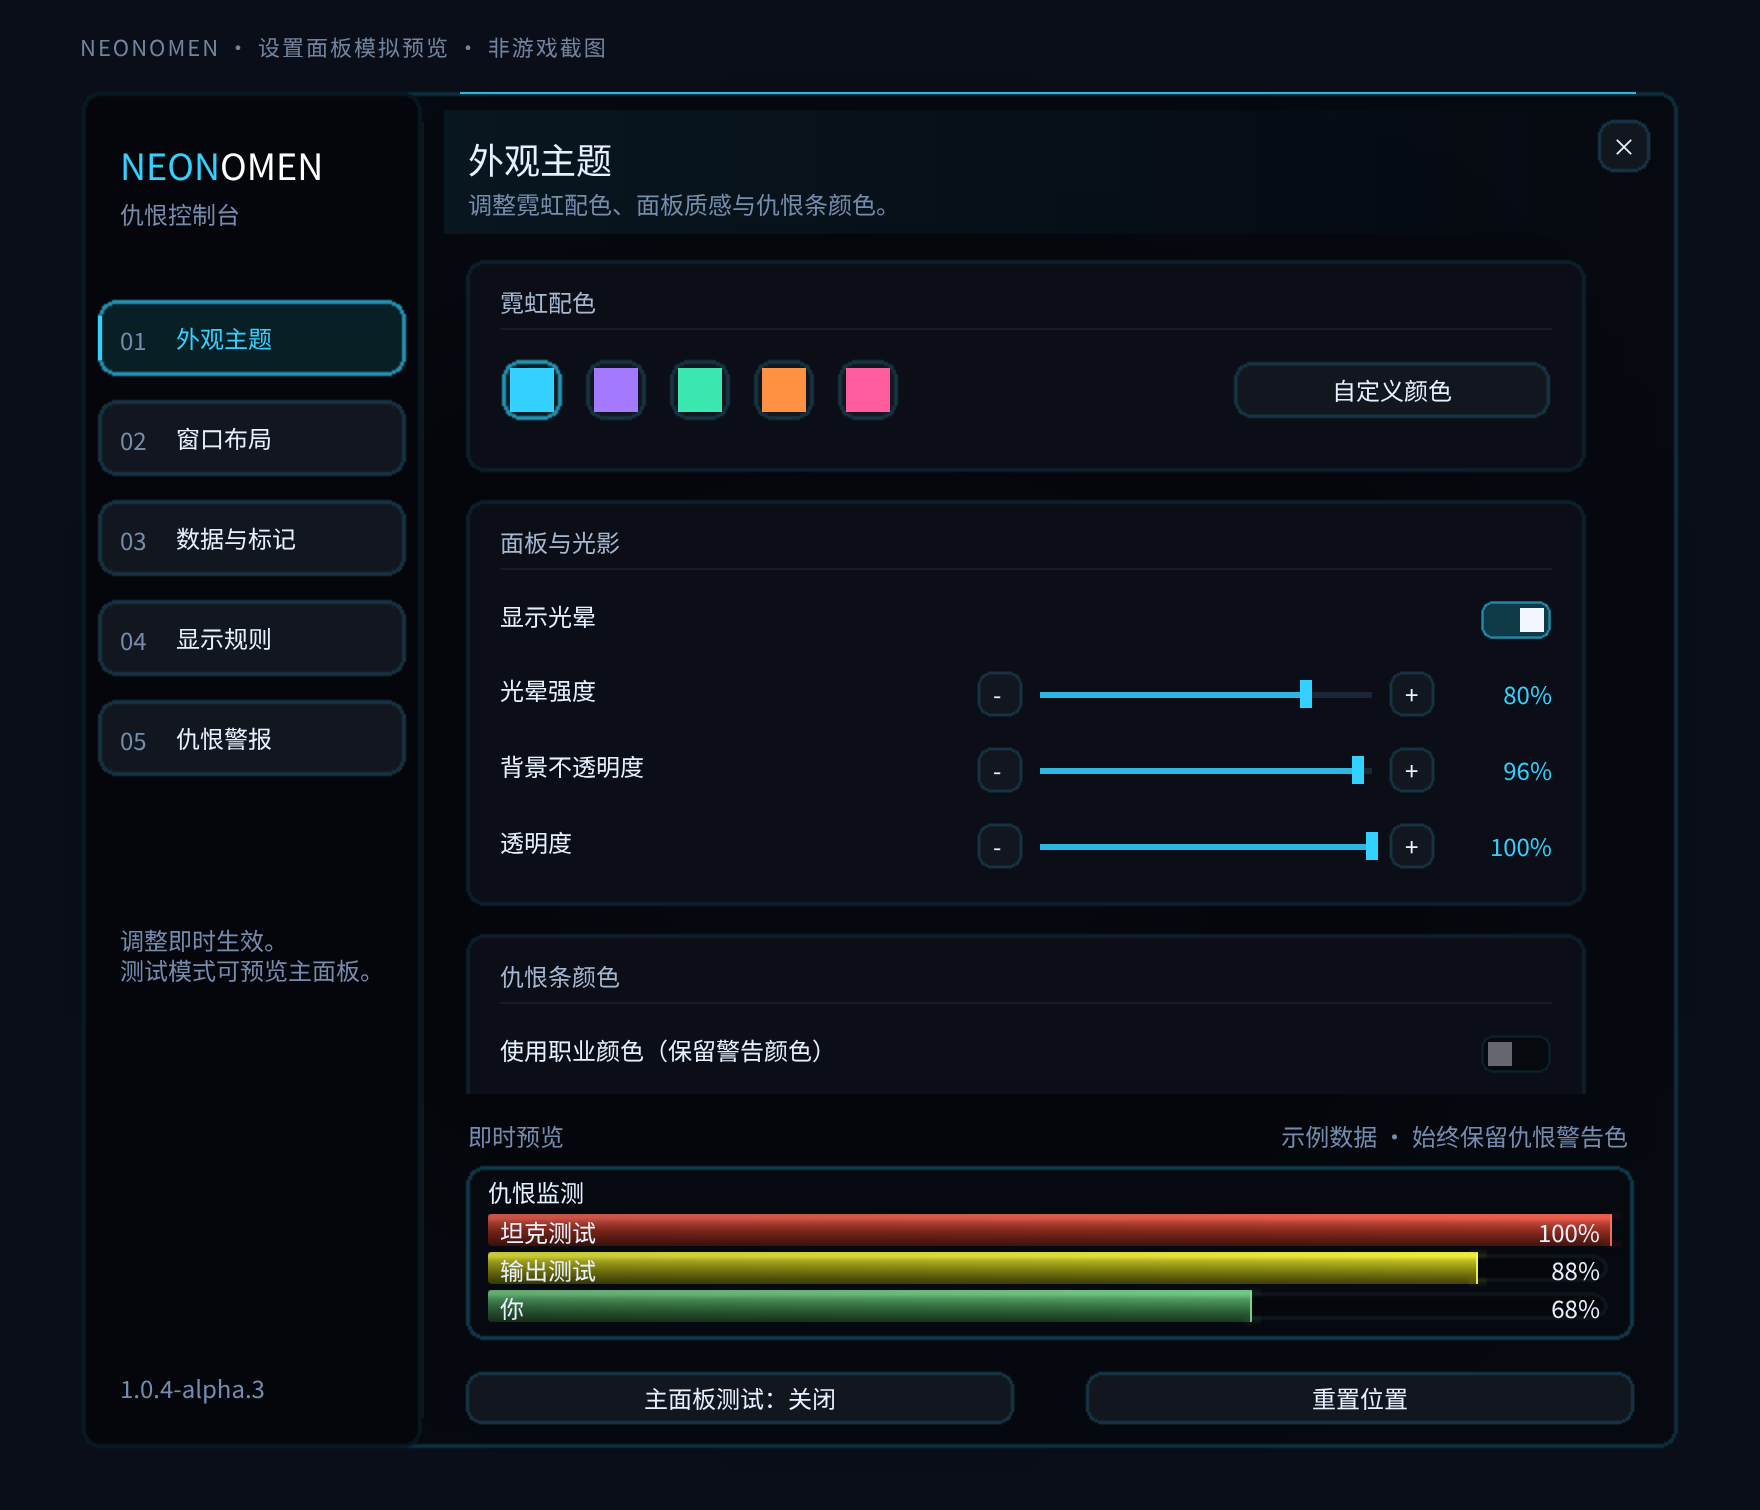
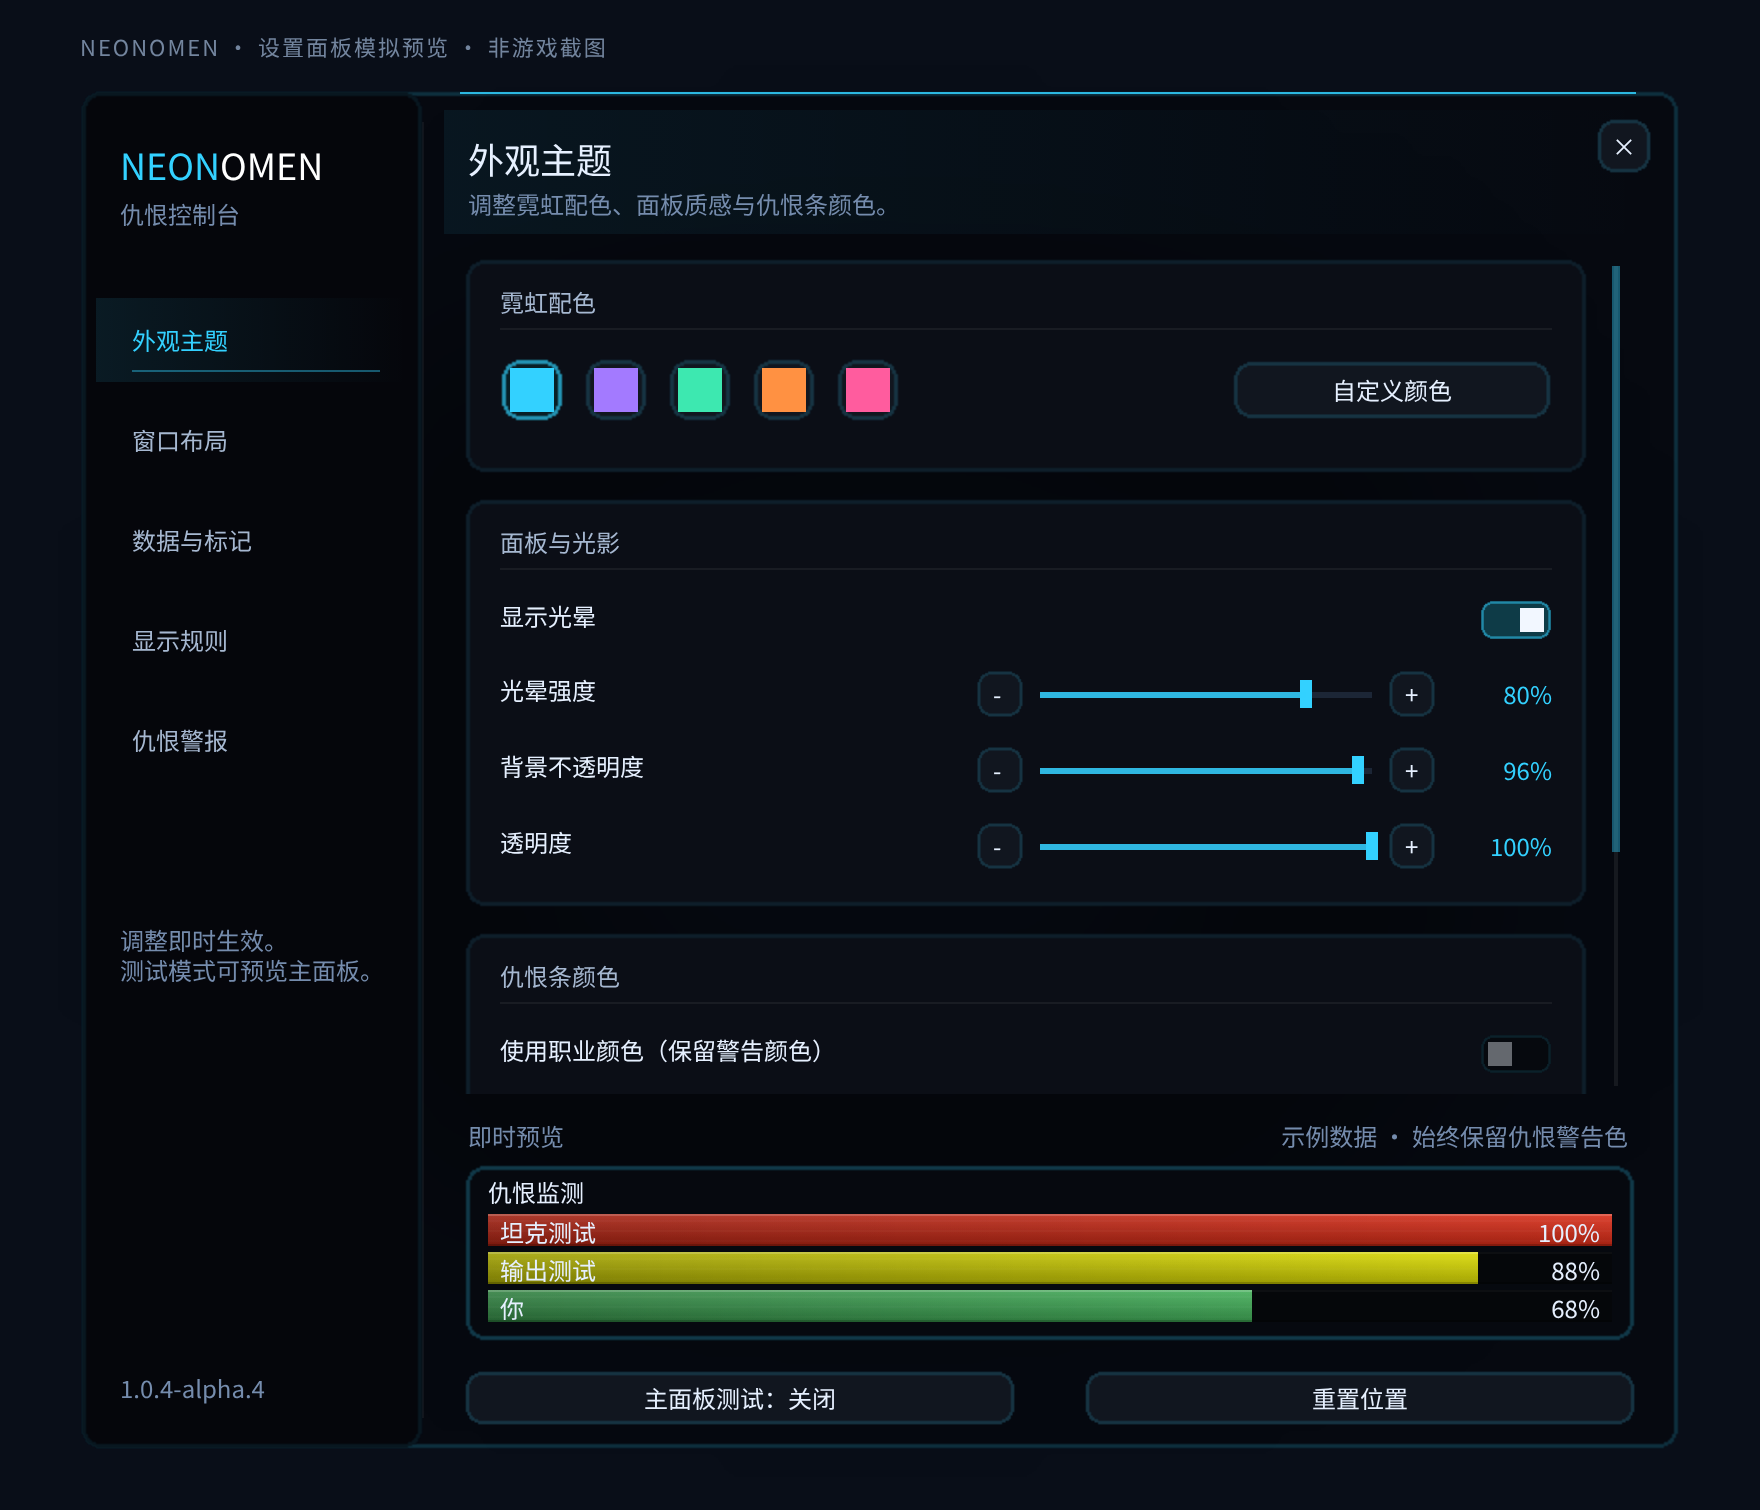
Fix clipped sidebar tabs and replace distorted threat capsules with satin fills

Changed region(s): [[0.2812, 0.8093, 0.9375, 0.9026], [0.0312, 0.1868, 0.25, 0.5291], [0.9062, 0.1868, 0.9375, 0.5603]]

diff --git a/tests/test_ui.py b/tests/test_ui.py
@@ -27,11 +27,12 @@ def test_fill_decorations_hide_at_zero_and_follow_the_native_texture():
     lua.execute('''
         local bar=OmenReloadedForeverBar1
         bar:SetValue(0)
-        assert(not bar.neonEdge:IsShown() and not bar.neonGlow:IsShown())
+        assert(not bar.materialTop:IsShown() and not bar.neonGlow:IsShown())
         assert(not bar.neonSheen:IsShown() and not bar.neonShade:IsShown())
         bar:SetValue(45)
-        assert(bar.neonEdge:IsShown() and bar.neonSheen:IsShown())
-        for _,texture in ipairs({bar.neonEdge,bar.neonSheen,bar.neonShade,bar.neonGlow}) do
+        assert(bar.materialTop:IsShown() and bar.neonSheen:IsShown())
+        for _,texture in ipairs(bar.materialLayers) do
+            if texture.allPoints then assert(texture.allPoints==bar:GetStatusBarTexture()) end
             for _,point in ipairs(texture.points) do assert(point[2]==bar:GetStatusBarTexture()) end
         end
         -- No new per-frame material animation is needed: the existing fill
@@ -51,14 +52,14 @@ def test_secret_values_are_never_compared_or_used_for_geometry(modern):
             __add=forbidden,__sub=forbidden,__mul=forbidden,__div=forbidden})
         bar:SetValue(value)
         ns.Theme.PaintBar(bar,1,0.2,0.1,true,0.8)
-        assert(bar.neonHasFill and bar.neonEdge:IsShown())
+        assert(bar.neonHasFill and bar.materialTop:IsShown())
         assert(bar:GetValue()==value)
         bar:SetValue(0)
-        assert(not bar.neonEdge:IsShown())
+        assert(not bar.materialTop:IsShown())
     ''')
 
 
-def test_saved_glow_setting_keeps_progress_edge_and_warning_colors():
+def test_saved_glow_setting_keeps_material_and_warning_colors():
     lua = addon(saved="{showGlow=false, glowIntensity=1, useClassColors=true}")
     preview(lua)
     lua.execute('''
@@ -67,13 +68,32 @@ def test_saved_glow_setting_keeps_progress_edge_and_warning_colors():
             local bar=_G['OmenReloadedForeverBar'..i]
             if bar and bar:IsShown() then
                 assert(not bar.neonGlow:IsShown())
-                assert(bar.neonEdge:IsShown())
+                assert(bar.materialTop:IsShown())
                 local c=bar.barColor
                 if c[1]==1 and c[2]==1 and c[3]==0 then sawYellow=true end
                 if c[1]==1 and c[2]==0.2 and c[3]==0.1 then sawRed=true end
             end
         end
         assert(sawYellow and sawRed)
+    ''')
+
+
+@pytest.mark.parametrize("height", [10, 16, 40])
+@pytest.mark.parametrize("width", [100, 600])
+def test_short_and_wide_rows_have_no_stretched_mask_or_vertical_cap(width, height):
+    lua = addon(saved=f"{{width={width},height={height},frameHeight=900}}")
+    preview(lua)
+    lua.execute('''
+        for i=1,3 do
+            local bar=_G['OmenReloadedForeverBar'..i]
+            assert(bar.neonEdge==nil and bar.roundMask==nil)
+            assert(bar:GetStatusBarTexture().mask==nil)
+            assert(bar:GetStatusBarTexture().texture=='Interface\\\\Buttons\\\\WHITE8x8')
+            assert(bar.neonGlow.allPoints==bar:GetStatusBarTexture())
+            bar:SetValue(0)
+            for _,layer in ipairs(bar.materialLayers) do assert(not layer:IsShown()) end
+            assert(not bar.neonGlow:IsShown())
+        end
     ''')
 
 

diff --git a/tests/support.py b/tests/support.py
@@ -22,6 +22,7 @@ def addon(locale="enUS", saved="{}", modern=True, native_settings=False):
             'SetOwner','AddLine','SetTexCoord','SetTextureSliceMargins',
             'SetTextureSliceMode','SetOrientation'
         }) do M[key] = noop end
+        M.EnableMouseWheel=noop
         function CreateFrame(kind, name, parent, template)
             local f = setmetatable({kind=kind,name=name,parent=parent,
                 scripts={},events={},points={},shown=true,width=220,height=200}, {__index=M})
@@ -48,7 +49,7 @@ def addon(locale="enUS", saved="{}", modern=True, native_settings=False):
         function M:GetWidth() return self.width end
         function M:GetHeight() return self.height end
         function M:SetPoint(...) self.points[#self.points+1]={...} end
-        function M:ClearAllPoints() self.points={} end
+        function M:ClearAllPoints() self.points={};self.allPoints=nil end
         function M:SetAllPoints(ref) self.allPoints=ref or self.parent end
         function M:GetPoint(i) return unpack(self.points[i or 1]) end
         function M:SetFrameStrata(s) self.strata=s end
@@ -68,6 +69,7 @@ def addon(locale="enUS", saved="{}", modern=True, native_settings=False):
         function M:GetFont() return 'Fonts/ARIALN.TTF',12 end
         function M:SetFont(...) self.font={...} end
         function M:SetTexture(t) self.texture=t end
+        function M:SetOrientation(direction) self.orientation=direction end
         function M:SetTextureSliceMargins(...) self.sliceMargins={...} end
         function M:SetThumbTexture(t) self.thumb=self:CreateTexture();self.thumb:SetTexture(t) end
         function M:GetThumbTexture() return self.thumb end
@@ -90,6 +92,7 @@ def addon(locale="enUS", saved="{}", modern=True, native_settings=False):
         function M:SetChecked(on) self.checked=on end
         function M:GetChecked() return self.checked end
         function M:SetScrollChild(child) self.child=child end
+        function M:SetVerticalScroll(value) self.verticalScroll=value end
         function M:SetScript(event, fn) self.scripts[event]=fn end
         function M:GetScript(event) return self.scripts[event] end
         function M:HookScript(event, fn)

diff --git a/tests/test_options.py b/tests/test_options.py
@@ -94,3 +94,38 @@ def test_native_settings_launcher_uses_the_same_combat_gate_and_window():
         assert(ui.frame:GetHeight()*ui.frame.scale<=576)
         assert(UISpecialFrames[#UISpecialFrames]=='OmenReloadedForeverOptionsPanel')
     ''')
+
+
+@pytest.mark.parametrize("locale", ["enUS", "zhCN", "zhTW"])
+def test_navigation_uses_full_width_labels_and_pages_scroll_without_native_arrows(locale):
+    lua = addon(locale)
+    lua.execute('''
+        local ui=ns.Options.current
+        SlashCmdList.OMENRELOADEDFOREVER('')
+        for i,page in ipairs(ui.pages) do
+            page.nav.scripts.OnClick()
+            assert(#page.nav.caption.points==2)
+            assert(page.nav.caption.points[1][1]=='LEFT')
+            assert(page.nav.caption.points[2][1]=='RIGHT')
+            -- Each nav button has one text label, with no narrow numeric field.
+            local labels=0
+            for _,frame in ipairs(frames) do
+                if frame.parent==page.nav and frame.kind=='FontString' then labels=labels+1 end
+            end
+            assert(labels==1)
+            local bar=page.scrollbar
+            assert(bar.ScrollUpButton==nil and bar.ScrollDownButton==nil)
+            local range=math.max(0,-page.cursor-418)
+            page.scroll.scripts.OnMouseWheel(page.scroll,-100)
+            assert(page.scroll.verticalScroll==range)
+            page.scroll.scripts.OnMouseWheel(page.scroll,100)
+            assert(page.scroll.verticalScroll==0)
+            if range>0 then
+                bar:SetValue(range/2)
+                assert(page.scroll.verticalScroll==range/2)
+            end
+            for otherIndex,other in ipairs(ui.pages) do
+                assert(other.scrollbar:IsShown()==(otherIndex==i and -other.cursor>418))
+            end
+        end
+    ''')

diff --git a/tools/package.py b/tools/package.py
@@ -16,9 +16,6 @@ RUNTIME_FILES = (
     "Media/NeonBack.tga",
     "Media/NeonRing.tga",
     "Media/NeonGlow.tga",
-    "Media/ThreatGradient.tga",
-    "Media/ThreatMask.tga",
-    "Media/ThreatGlow.tga",
 )
 
 

diff --git a/docs/DEVELOPMENT.md b/docs/DEVELOPMENT.md
@@ -18,6 +18,16 @@ settings category is a launcher, so the full console keeps its navigation and
 preview layout. The sample uses the actual bar skin and color-selection function
 without joining the threat scan or enabling the main meter's test mode.
 
+Threat bars use a native white StatusBar texture with contained material layers.
+Do not stretch rounded masks across the changing fill width or add vertical
+end-caps: both caused visible artifacts in the client screenshots. Gradients,
+horizontal grain and reflection anchor to the fill without reading its geometry.
+The legacy threat bitmaps remain in source history but are no longer packaged.
+
+The console owns its scrollbars rather than inheriting a client template. Wheel
+steps and thumb dragging share a clamped offset; switching pages preserves each
+page's offset. Only the active overflowing page shows a scrollbar.
+
 ## Automated checks
 
 ```sh
@@ -37,11 +47,12 @@ They cannot establish actual client rendering, taint behavior or combat compatib
 - With the game closed, copy the legacy settings file as documented. Install into `NeonOmen`, remove the old addon directory, and confirm position, size, visibility, colors and keybindings survive login and `/reload`.
 - Use `/orf test`, then overlap the meter with the game menu, system settings, bags and dialogs. Click and drag the meter, and reopen those windows. The meter must stay below them.
 - Open `/orf` in both the native settings host and the standalone fallback where available.
-- Check normal, yellow, red and class colors. Toggle glow and verify the leading edge remains visible. At zero, no glow or bright marker should remain.
+- Check normal, yellow, red and class colors at short and wide meter sizes and bar heights from 10 to 40. Fill ends should stay straight, without capsule distortion, a vertical cap or glow beyond the end. Toggle glow and confirm the surface still has depth. At zero, only the empty track should remain.
 - Resize the meter, change row height and UI scale, and enable upward growth and auto-collapse. Check that the fill, shading, edge and text stay aligned.
 - Enter a party/dungeon with protected threat values; confirm bars update without Lua errors or blocked actions. Return to ordinary values and confirm smoothing resumes.
 - Enter combat, request settings, and leave combat; settings should open afterward.
 - Open every console page, scroll its cards, and test switches, slider steps, presets, color-picker apply/cancel, class filters and every alert sound. The preview must update immediately while preserving warning colors.
 - Open settings from the minimap, slash commands and native launcher. Test Escape, close/reopen, dragging, UI scaling and small screens in English and Chinese. Verify scrollbar behavior and the fixed preview stay usable.
+- With custom client fonts, verify sidebar labels show without clipped numbering or ellipses. Scroll every page to both ends, drag each thumb, then switch pages and confirm positions persist. No native gold arrow buttons should appear.
 
 Keep the version prerelease until these checks pass. No release tag is created by the packaging tool.

diff --git a/README.md b/README.md
@@ -8,7 +8,7 @@ A threat meter for World of Warcraft Forever, customized with a neon-style inter
 - Customizable theme color, glow, and window background opacity.
 - Test mode for previewing the display.
 - A low-layer meter that stays below system settings and dialogs.
-- NeonCast-inspired dark tracks, shaded fills, restrained glow and a clear progress edge.
+- Satin threat bars with fine horizontal reflections, straight fill ends and preserved warning colors.
 - A NeonCast-style settings console with five pages, accent presets, styled controls and live sample bars.
 
 ## Installation
@@ -19,10 +19,11 @@ The Actions artifact also extracts directly to this directory, without a nested 
 
 Use `/neonomen` (or `/orf`) to open settings and `/orf test` to toggle test mode.
 
-`1.0.4-alpha.3` is a development build awaiting verification in the Forever client.
+`1.0.4-alpha.4` is a development build awaiting verification in the Forever client.
 
 The settings console opens directly from `/neonomen`, `/orf` or the minimap button.
-The system settings category also provides a button to open it. Appearance, window
+The system settings category also provides a button to open it. The sidebar uses
+full-width text tabs with a quiet selected underline. Appearance, window
 layout, data labels, visibility and alerts have separate pages; their options scroll
 independently while the sample preview remains visible. The five accent presets
 match NeonCast. Sample bars do not enable the main meter's test mode; use the

diff --git a/CHANGELOG.md b/CHANGELOG.md
@@ -1,5 +1,14 @@
 # Changelog
 
+## 1.0.4-alpha.4 — 2026-11-10
+
+- Replace the narrow numbered sidebar buttons with full-width text tabs, soft selected backgrounds and horizontal underlines; avoid clipped numbers with custom client fonts.
+- Replace client-template scrollbars with a thin styled thumb supporting wheel scrolling, dragging, clamped ranges and per-page scroll positions, without native gold arrows.
+- Remove the stretched rounded threat mask, cylindrical bar texture and vertical progress cap. Use native rectangular fills with directional shading, fine horizontal brushing and a restrained top reflection.
+- Keep all material layers within the native fill and hide them at zero, including while optional glow is disabled. Preserve warning colors and secret-value handling.
+- Remove the meter's decorative title stripe and exclude the obsolete threat bitmaps from installation packages.
+- Add regression coverage for short/wide rows, different heights, complete navigation labels and scroll limits. The client screenshots motivated this change; the new rendering still needs game verification.
+
 ## 1.0.4-alpha.3 — 2026-11-10
 
 - Rebuild settings in NeonCast's visual style: numbered sidebar navigation, dark cards, accent wash, neon switches and numeric sliders with step buttons.
